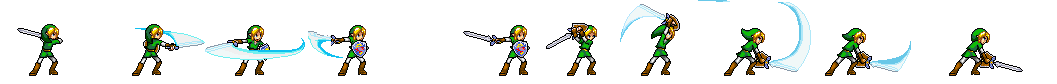
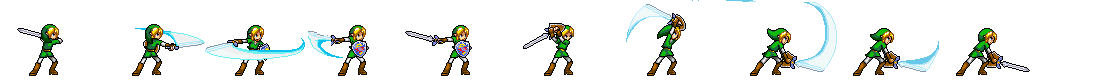
Trying to implement combo system

Changed region(s): [[0.0937, 0.0238, 0.9678, 0.9048], [0.0, 0.2857, 0.0624, 0.9048], [0.6556, 0.0, 0.6868, 0.0238]]

diff --git a/Link.js b/Link.js
@@ -9,6 +9,7 @@ class Link{
 
 		this.maxHealth = 5;
 		this.currentHealth =5;
+		this.comboCounter = 0;
 		// link's state variables
 		this.itemsEquipped = 1; // 0 = none, 1 = master sword and shield 
 		this.state = 0; // 0 = idle, 1 = walking, 2 = running, 3 = damaged, 4 = jumping/falling, 5 = attack1
@@ -104,7 +105,7 @@ class Link{
 
 		// mastersword and shield 
         // facing left = 1
-        this.animations[1][0][1] = new Animator(ASSET_MANAGER.getAsset("./Link_main_character.png"), 646, 139, 60, 60, 6, 0.2, 0, false, true,false);
+        this.animations[1][0][1] = new Animator(ASSET_MANAGER.getAsset("./Link_main_character.png"), 646, 139, 60, 60, 1, 0.2, 0, false, true,false);
         this.animations[1][1][1] = new Animator(ASSET_MANAGER.getAsset("./Link_main_character.png"), 646, 139, 60, 60, 6, 0.2, 0, false, true,false);
         // this.animations[1][2][1] = new Animator(this.spritesheet, 209, 122, 16, 32, 1, 0.33, 14, false, true);
 		// this.animations[1][3][1] = new Animator(this.spritesheet, 209, 122, 16, 32, 1, 0.33, 14, false, true);
@@ -138,7 +139,7 @@ class Link{
             this.y = 1024;
         }
 
-        this.state = 0;
+        //this.state = 0;
 
         if (this.game.down && !this.game.up) {
             console.log("DOWN");
@@ -164,31 +165,29 @@ class Link{
             this.facing = 0;
             this.state = 1;
             this.x = this.x + this.speed * this.game.clockTick;
-        } else if(this.game.attack){
+        }  else if(!this.game.right && !this.game.left && this.state === 1 ){
+			this.state = 0;
+		} else if(this.game.attack && this.state !== 5 ){
 			console.log("Attack");
 			//this.itemsEquipped = 1;
 			this.state = 5;
 			
 			//begin attack animation interval. 
-			this.elapsedTime+= this.game.clockTick;
+			this.elapsedTime= 0;
+			
 			//
-			if(this.elapsedTime > this.animations[1][5][0].TotalTime+ (this.game.clockTick *2)){
-			// after attack animation and combo window closes 
-
-			// this.game.attack = false;
-			// this.state = idle; 
-			//this.elapsedTime = 0;
+		} else if(this.state === 5 ){
+		this.elapsedTime+= this.game.clockTick;
+			if(this.elapsedTime > this.animations[1][5][0].totalTime){
+			this.state = 0;
+			this.comboCounter++;
+			}
+	
+		} else if (this.state!== 5 && this.comboCounter === 1 && this.game.attack){
+			
 		}
 		
 			
-		}
-
-        else {
-            this.state = 0;
-			//this.itemsEquipped = 0; 
-        }
-
-
         if(this.game.damage) {
             this.state = 1; 
         }

diff --git a/animator.js b/animator.js
@@ -62,30 +62,13 @@ class Animator {
         }
     };
 
-    //function that returns the total time of the animation.
-    //are getters used with parenthesis? 
-    get TotalTime() {
-        return this.totalTime;
-      }
+
     //fuhnction that advances a tick and tells us current frame, 
     //as animator in the update function of another entity to tell what frame you are on is always the last frame
     //from current frame function used.Should keep in mind that the update function of another entity is called before the animator changes its frame.
     advanceAndGetCurrentFrame(currentTick) {
         // Create a new elapsed time variable for temporary use
         let tempElapsedTime = this.elapsedTime + currentTick;
-
-        if (this.isDone(tempElapsedTime)) {
-            // If the animation is done, handle looping
-            if (this.loop) {
-                tempElapsedTime -= this.totalTime;
-            } else {
-                // Stop at the last frame if not looping
-                tempElapsedTime = this.totalTime;
-            }
-        }
-
-
-
         // Return the current frame based on the temporary elapsed time
         return Math.floor(tempElapsedTime / this.frameDuration);
     };

diff --git a/gameengine.js b/gameengine.js
@@ -15,6 +15,7 @@ class GameEngine {
         this.wheel = null;
         this.keys = {};
 
+
         //maincontrols
         this.left = false;
         this.right = false;
@@ -82,6 +83,7 @@ class GameEngine {
                 case 1:
                     //alert('Left Mouse button click.');
                     that.attack = true;
+
                     break;
                 case 2:
                     //alert('Middle Mouse button release.');
@@ -109,7 +111,7 @@ class GameEngine {
             switch (e.which) {
                 case 1:
                     //alert('Left Mouse button release.');
-                    that.attack = false;
+                    //that.attack = false;
                     break;
                 case 2:
                     //alert('Middle Mouse button release.');
@@ -274,6 +276,7 @@ class GameEngine {
         this.clockTick = this.timer.tick();
         this.update();
         this.draw();
+        this.attack = null;
     };
 
 };
